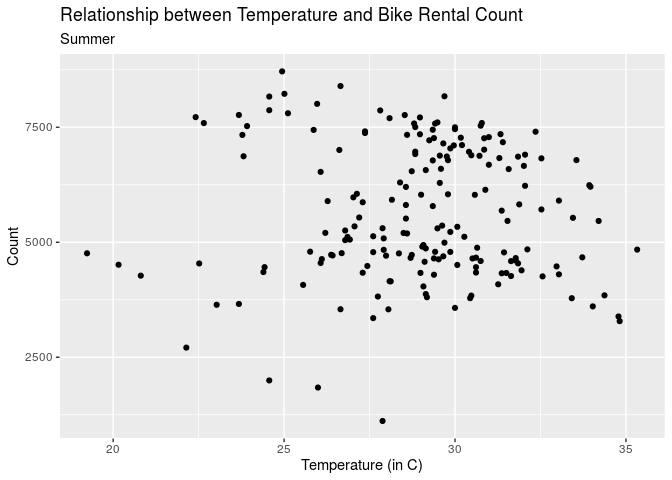
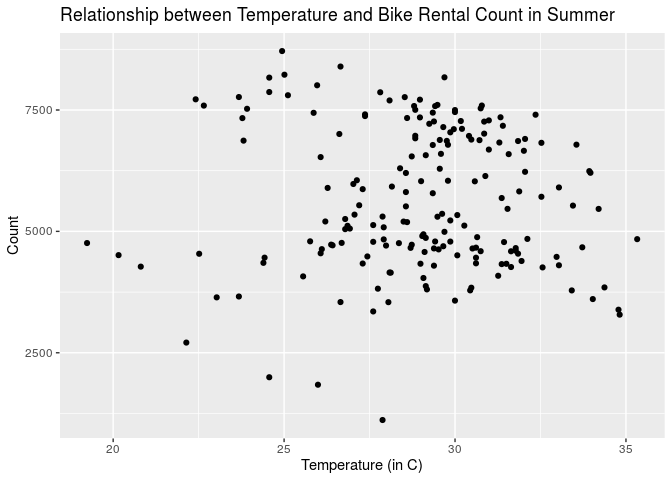
Added part 2 analysis

diff --git a/hw-01-slr.md b/hw-01-slr.md
@@ -117,15 +117,36 @@ tidy(summer_model, conf.int = TRUE, level = 0.95) %>%
 
 count = 6121.927 - 16.493 \* temp\_c
 
+The null hypothesis is that the slope between bike rental count and
+temperature is 0 (there is no statistically significant linear
+relationship). The alternative hypothesis is the slope between bike
+rental count and temperature is not 0 (there is a statistically
+significant linear relationship).
+
+H0: β1 = 0 Ha: β1 ≠ 0
+
+The 95% confidence interval shows that we are 95% confident that the
+true slope between temperature and bike rental count in the summer is
+between -89.150 and 56.164.
+
+The p-value of 0.655 is greater than alpha = 0.05, so we fail to reject
+the null hypothesis. Thus, there is not a statistically significant
+linear relationship between bike rental count and temperature in the
+summer. This is also supported by the 95% CI because slope 0 falls
+within the 95% confidence interval.
+
 Created a scatterplot to visualize the relationship between temperature
 and bike rental count in the
 summer.
 
 ``` r
-ggplot(data = summer_data, mapping = aes(x = temp_c, y = count)) + geom_point() + labs(title = "Relationship between Temperature and Bike Rental Count", subtitle = "Summer", x = "Temperature (in C)", y = "Count")
+ggplot(data = summer_data, mapping = aes(x = temp_c, y = count)) + geom_point() + labs(title = "Relationship between Temperature and Bike Rental Count in Summer", x = "Temperature (in C)", y = "Count")
 ```
 
 ![](hw-01-slr_files/figure-gfm/scatterplot-1.png)<!-- -->
+
+There seems to be no linear relationship between bike rental count and
+temperature in the summer.
 
 Created a residual plot to visualize the relationship between residuals
 of bike rental count and temperature in the summer.
@@ -136,7 +157,7 @@ summer_data <- summer_data %>%
 ```
 
 ``` r
-ggplot(data = summer_data, mapping = aes(x = temp_c, y = resid)) + geom_point() + labs(title = "Residual Plot of Bike Rental Count vs. Temperature", subtitle = "Summer", x = "Temperature (in C)", y = "Residual") + geom_hline(yintercept = 0, color ="red")
+ggplot(data = summer_data, mapping = aes(x = temp_c, y = resid)) + geom_point() + labs(title = "Residual Plot of Bike Rental Count vs. Temperature in Summer", x = "Temperature (in C)", y = "Residual") + geom_hline(yintercept = 0, color ="red")
 ```
 
 ![](hw-01-slr_files/figure-gfm/resid-plot-1.png)<!-- -->
@@ -151,6 +172,25 @@ ggplot(data = summer_data, mapping = aes(x = resid)) + geom_histogram() + labs(t
 
 ![](hw-01-slr_files/figure-gfm/resid-hist-1.png)<!-- --> Linearity
 Normality Constant Variance Independence
+
+``` r
+x0 <- data.frame(temp_c = c(30))
+predict.lm(summer_model, x0, interval = "confidence",
+           conf.level = 0.95)
+```
+
+    ##        fit      lwr      upr
+    ## 1 5627.128 5403.455 5850.801
+
+The predicted average number of bike rentals for days in the summer that
+are 30 degrees Celsius is 5627 bikes. We are 95% confident that the true
+mean bike count for 30 degree Celsius summer days is between 5403 and
+5851 bikes.
+
+count = 6121.927 - 16.493 \* 30 = 5627.137
+
+Using the regression model, if it is 30 degrees Celsius on a single day
+in June, we predict there will be 5627 bike rentals.
 
 ### Overall (Do not delete\!)
 
